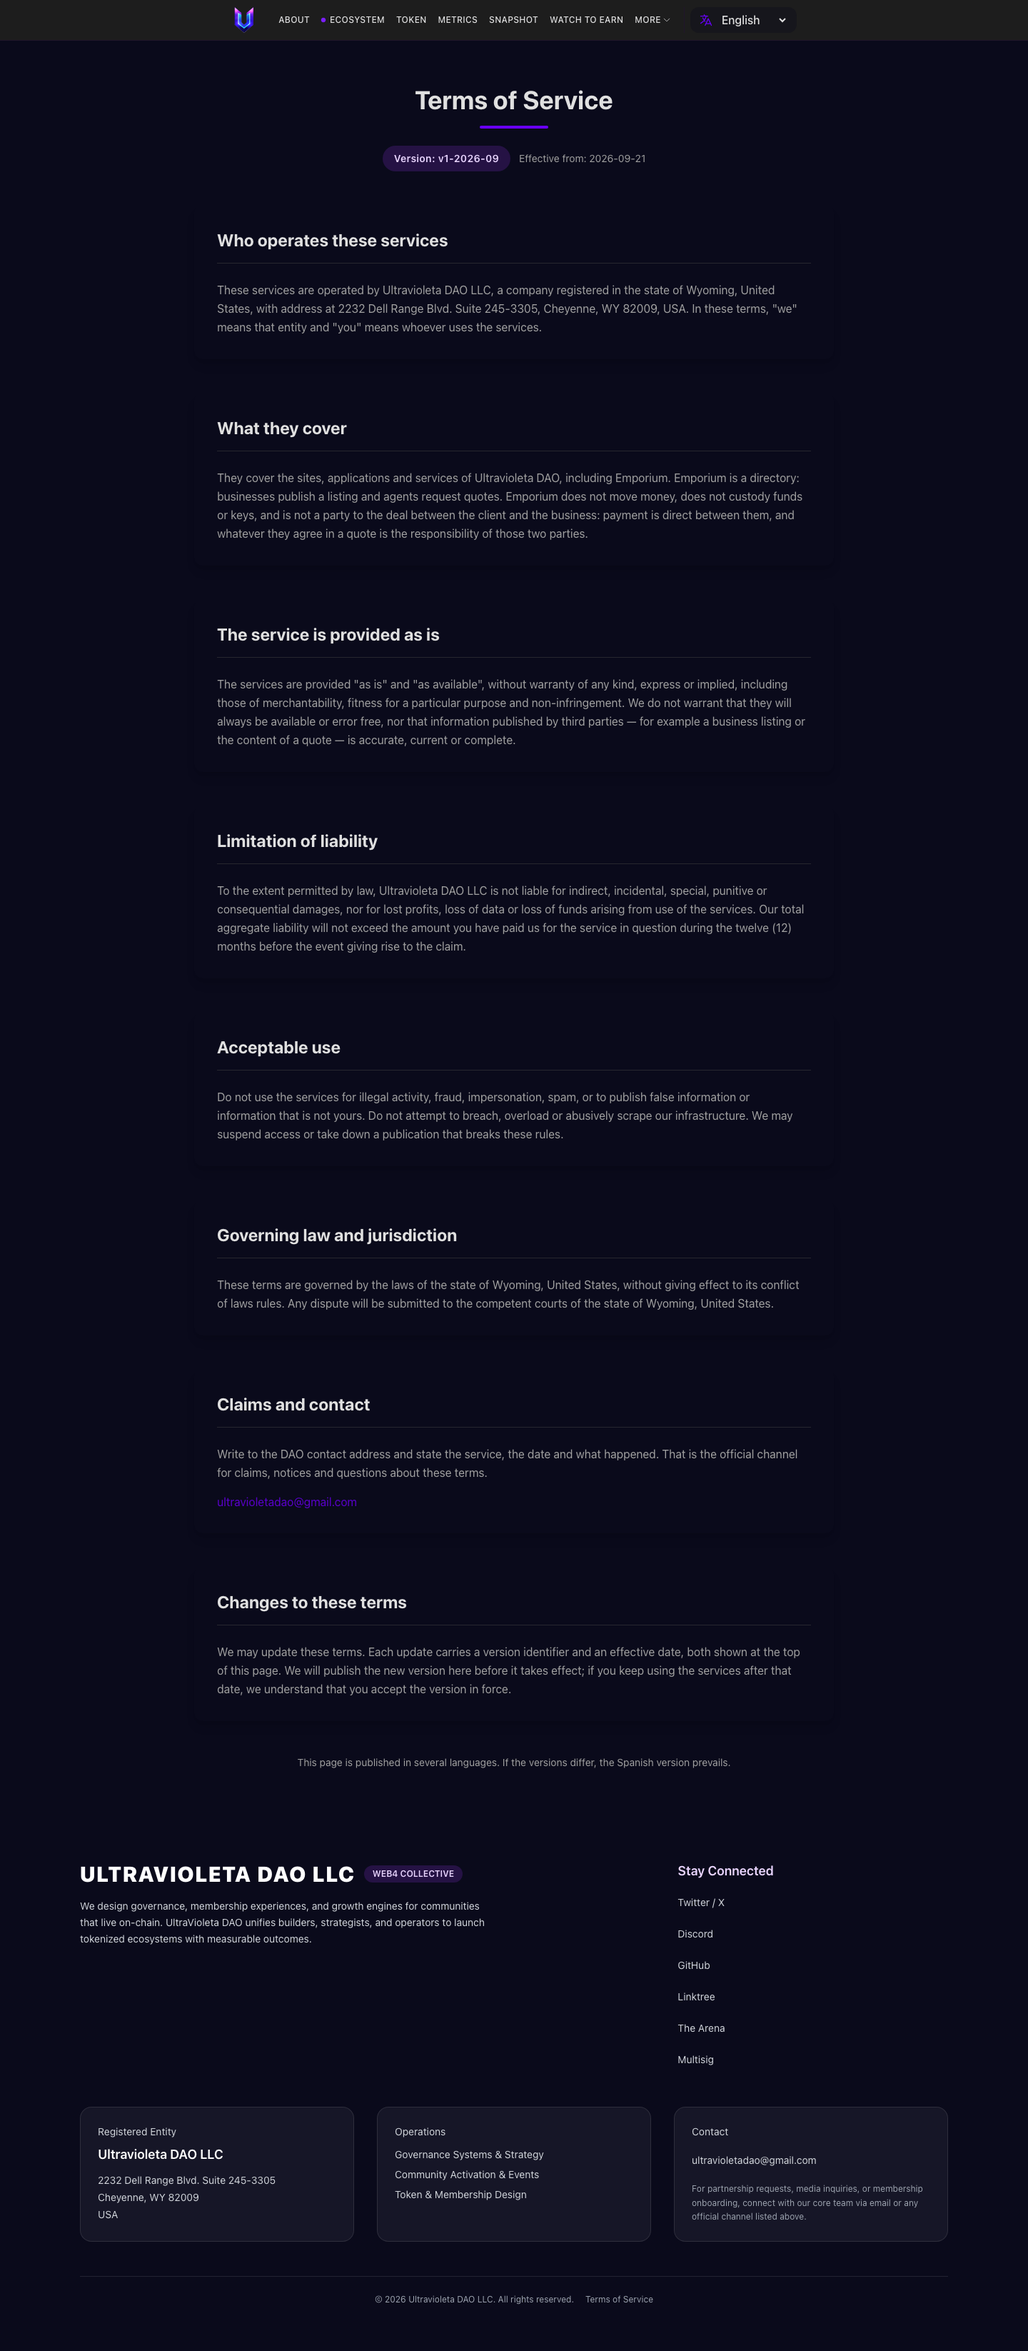
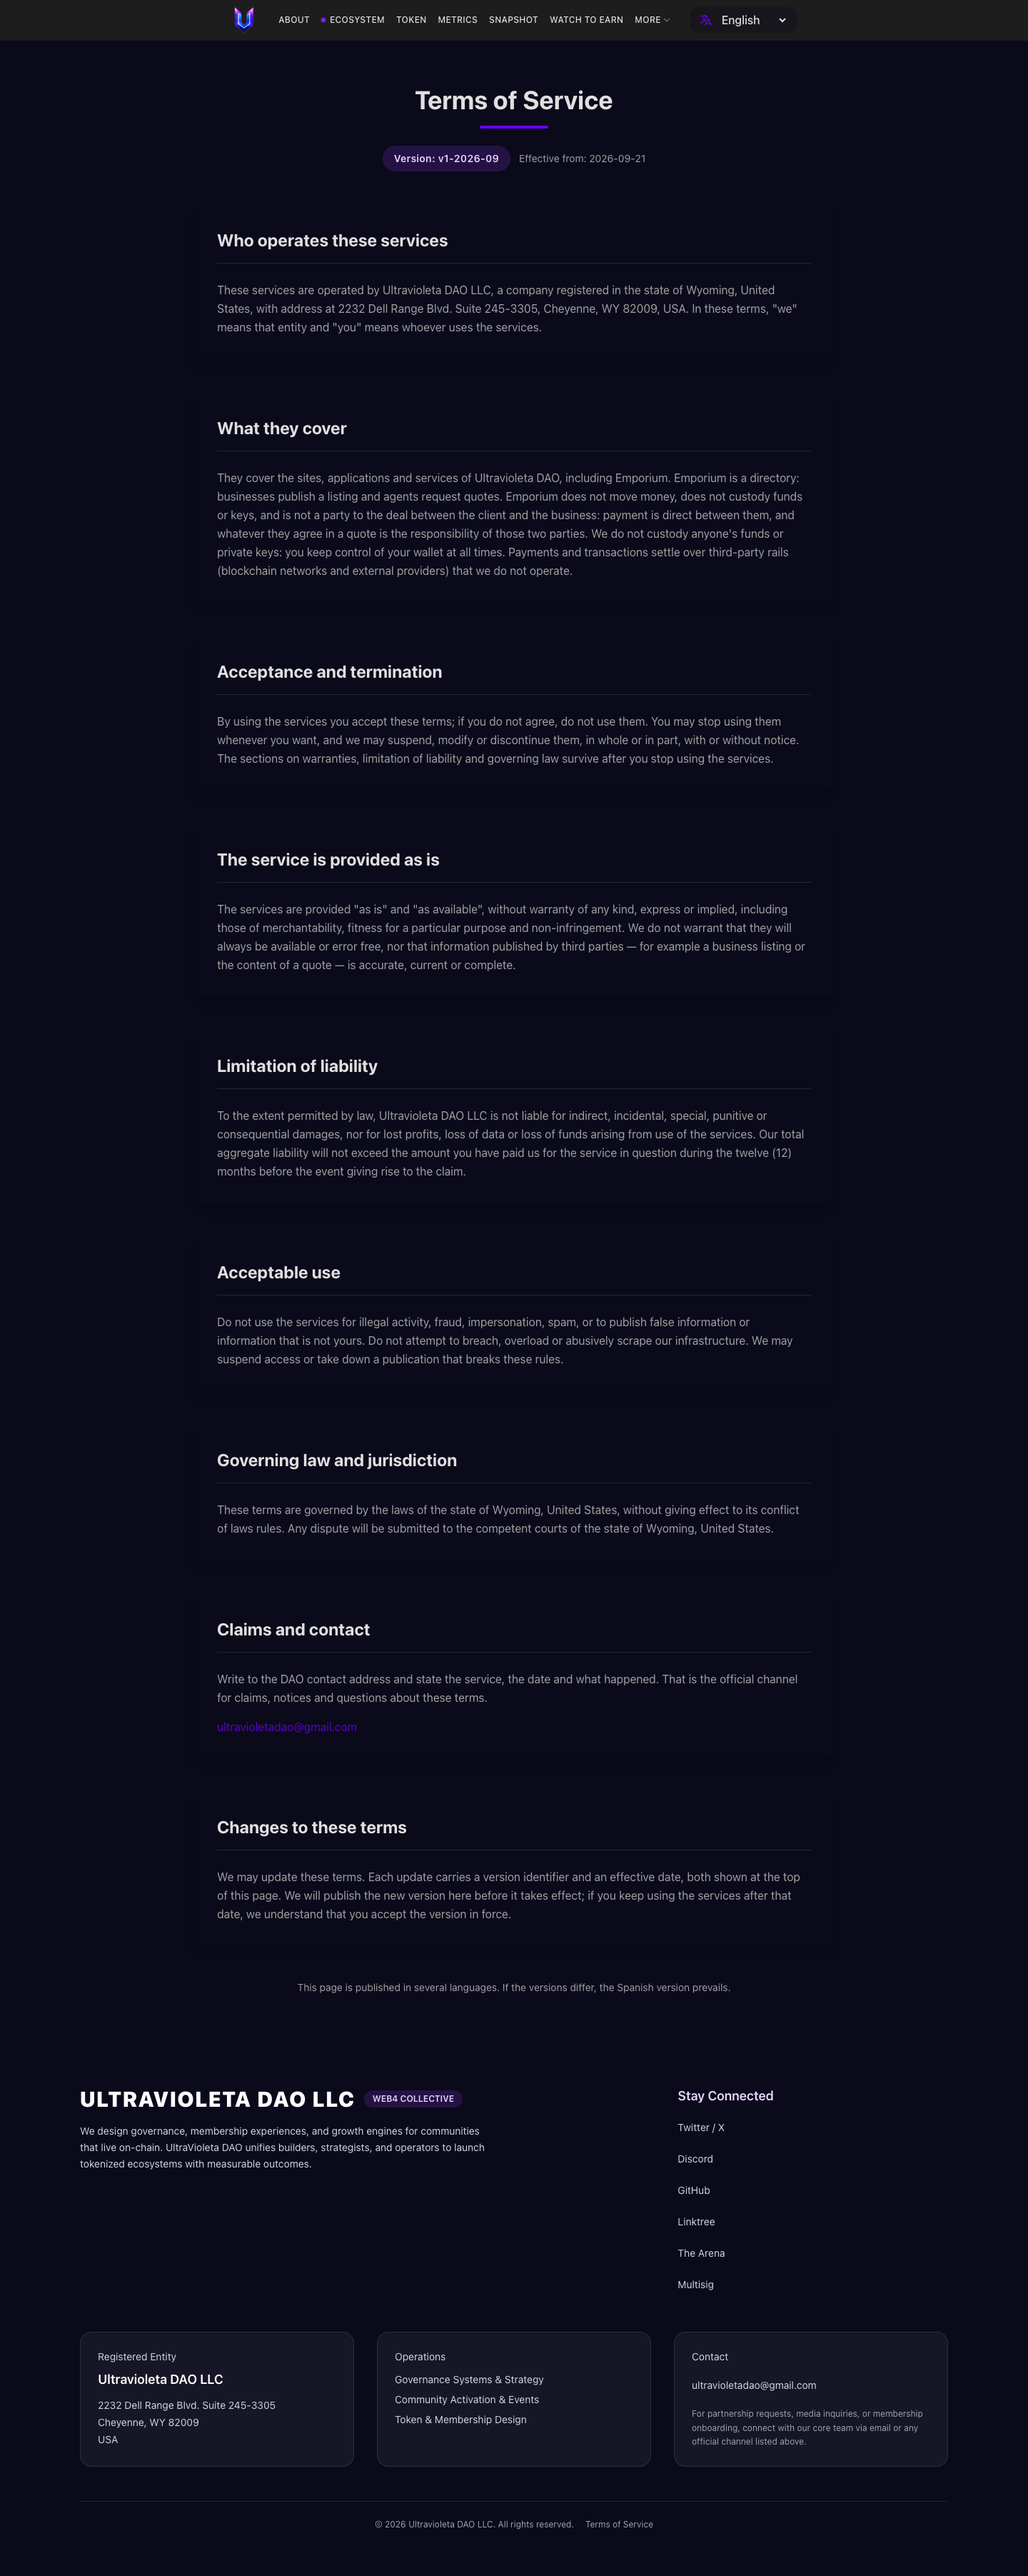
docs(terms): el catch-all devolvia un 404, no la portada, y capturas al dia
El README decia que /terms "caia en el catch-all y devolvia la portada". El
catch-all es <Route path="*" element={<NotFound />} />: devolvia un 404 con un
enlace a la portada. La ruta inventada y /terms daban el mismo cuerpo porque las
dos caian en ese 404, no porque sirvieran la portada.

Las capturas se rehacen porque el texto visible cambio: seccion nueva de
aceptacion, la frase de custodia y el punto doble corregido.

diff --git a/README.md b/README.md
@@ -6,24 +6,33 @@ Plataforma de aplicación y gestión para UltraVioleta DAO, la élite de Web3 en
 
 Página de términos mínimos de la casa, en los 4 idiomas del sitio. La publica
 `src/pages/Terms.js` y la sirve la ruta `/terms`; hasta ahora esa URL caía en el
-catch-all del sitio y devolvía la portada.
+catch-all (`<Route path="*" element={<NotFound />} />`) y devolvía un 404 con un
+enlace a la portada.
 
 ### 📌 Versión de los términos
 - **Versión vigente**: `v1-2026-09`, vigente desde `2026-09-21`.
 - **Fuente única**: las constantes `TERMS_VERSION` y `TERMS_EFFECTIVE_DATE` de
   `src/pages/Terms.js`. No se tipean en los diccionarios i18n: un test lo impide.
-- **Legible por máquina**: la versión sale en tres lugares del HTML —
+- **Legible por máquina, con JavaScript**: la versión sale en tres lugares del HTML —
   `<meta name="terms-version">`, `<meta name="terms-effective-date">` y el atributo
-  `data-terms-version` del contenedor de la página. Otros servicios de la casa
-  (Emporium) leen esa versión para arrancar.
-- **Para publicar una versión nueva**: cambiar las dos constantes y el texto del
-  bloque `terms` en `src/i18n/{es,en,pt,fr}.json`. El resto (SEO, sitemap, pie) ya
-  apunta solo.
+  `data-terms-version` del contenedor de la página.
+- **Legible por máquina, sin JavaScript**: los tres de arriba los inyecta Helmet en
+  el navegador, así que un `curl` a `/terms` recibe el shell de la SPA. Para eso está
+  **`public/terms/version.json`**, estático: `{"version", "effective", "url"}`. Es lo
+  que otro servicio de la casa (Emporium) puede leer directo para saber qué versión
+  hay publicada.
+- **Para publicar una versión nueva**: cambiar las dos constantes, el texto del
+  bloque `terms` en `src/i18n/{es,en,pt,fr}.json` y `public/terms/version.json`. Un
+  test compara ese archivo contra las constantes, así que no se puede subir uno y
+  olvidar el otro. El resto (SEO, sitemap, pie) ya apunta solo.
 
 ### 🧱 Contenido y forma
-- Secciones: quién opera, alcance (incluido Emporium), servicio tal cual,
-  limitación de responsabilidad, uso aceptable, ley aplicable (Wyoming, EE.UU.),
-  reclamos y contacto, y cambios a los términos.
+- Secciones: quién opera, alcance (incluido Emporium), aceptación y terminación,
+  servicio tal cual, limitación de responsabilidad, uso aceptable, ley aplicable
+  (Wyoming, EE.UU.), reclamos y contacto, y cambios a los términos.
+- El «no custodiamos fondos ni llaves» está redactado **con el sujeto en la casa**,
+  no solo en Emporium: el sitio conecta billeteras en `/safestats`, `/wheel`,
+  `/token`, `/snapshot`, `/facilitator` y el swap.
 - La entidad, el domicilio y el correo de contacto **no se re-tipean**: se
   interpolan desde las claves `footer.*` que ya publica el pie del sitio y el
   JSON-LD de la portada.
@@ -39,7 +48,15 @@ catch-all del sitio y devolvía la portada.
 ### 🧪 Test
 `src/pages/__tests__/terms.test.js` monta la página en español y en inglés y
 verifica la versión, la entidad publicada, la mención a Emporium y que no quede
-ninguna interpolación sin resolver.
+ninguna interpolación sin resolver. Además monta **la tabla de rutas real**
+(`src/AppRoutes.js`) para comprobar que `/terms` gana y no cae en el 404, con un
+control negativo sobre una ruta inventada, y compara `public/terms/version.json`
+contra las constantes de la página.
+
+La tabla de rutas se movió de `App.js` a `src/AppRoutes.js`: dentro de `App.js`
+venía pegada a los providers (thirdweb, wallet, react-query), y un test del routing
+tenía que arrastrar toda esa cadena para preguntar qué sirve una URL. `App.js`
+sigue montando exactamente lo mismo.
 
 ## 📦 Productos y Servicios (Diciembre 2024)
 
